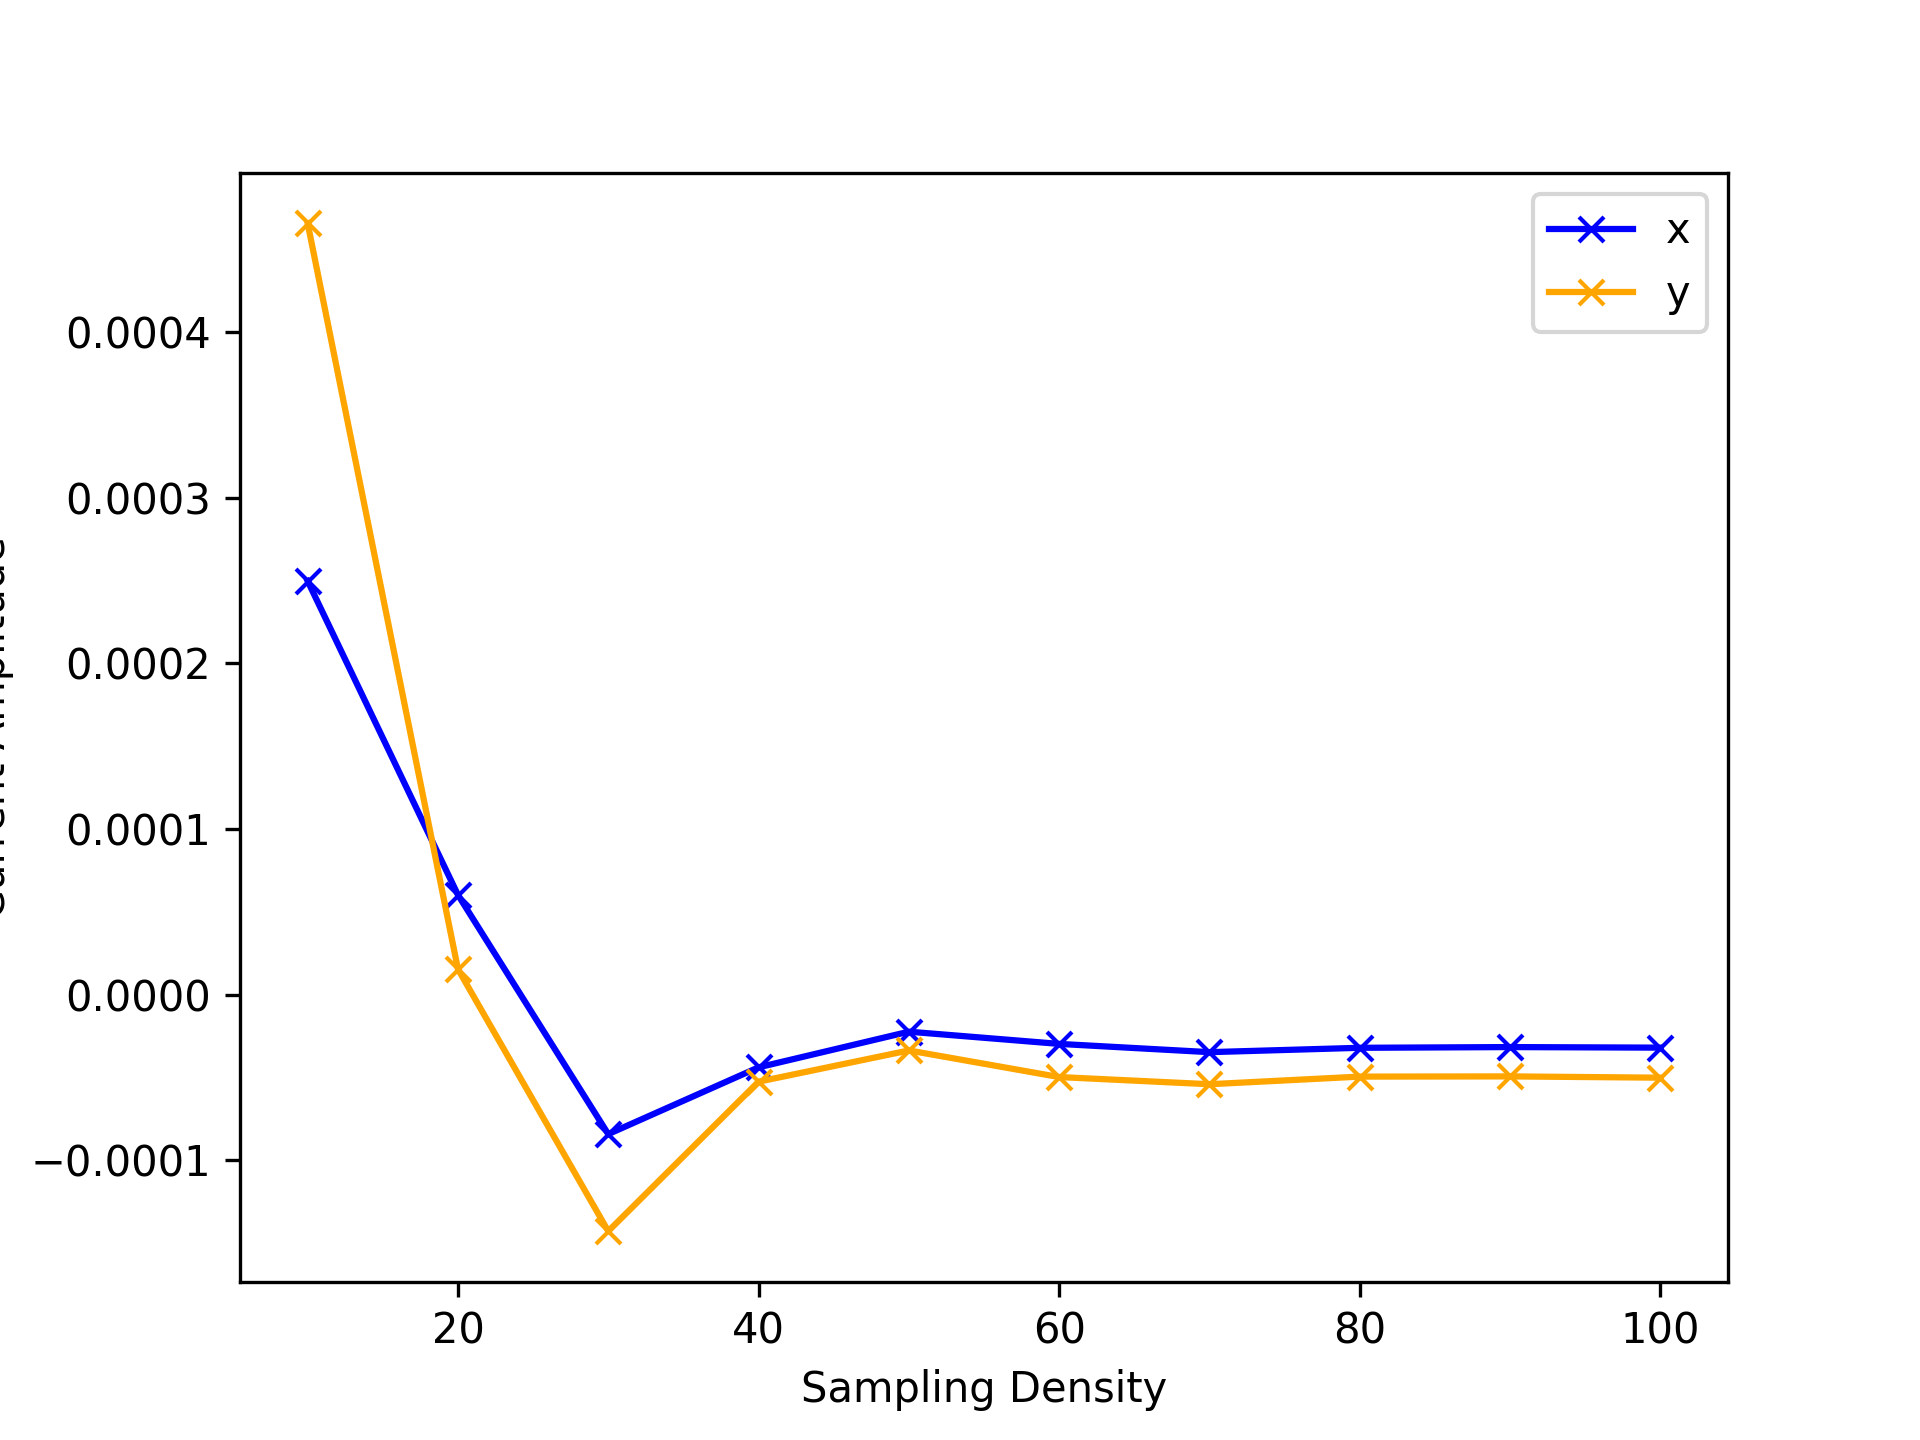
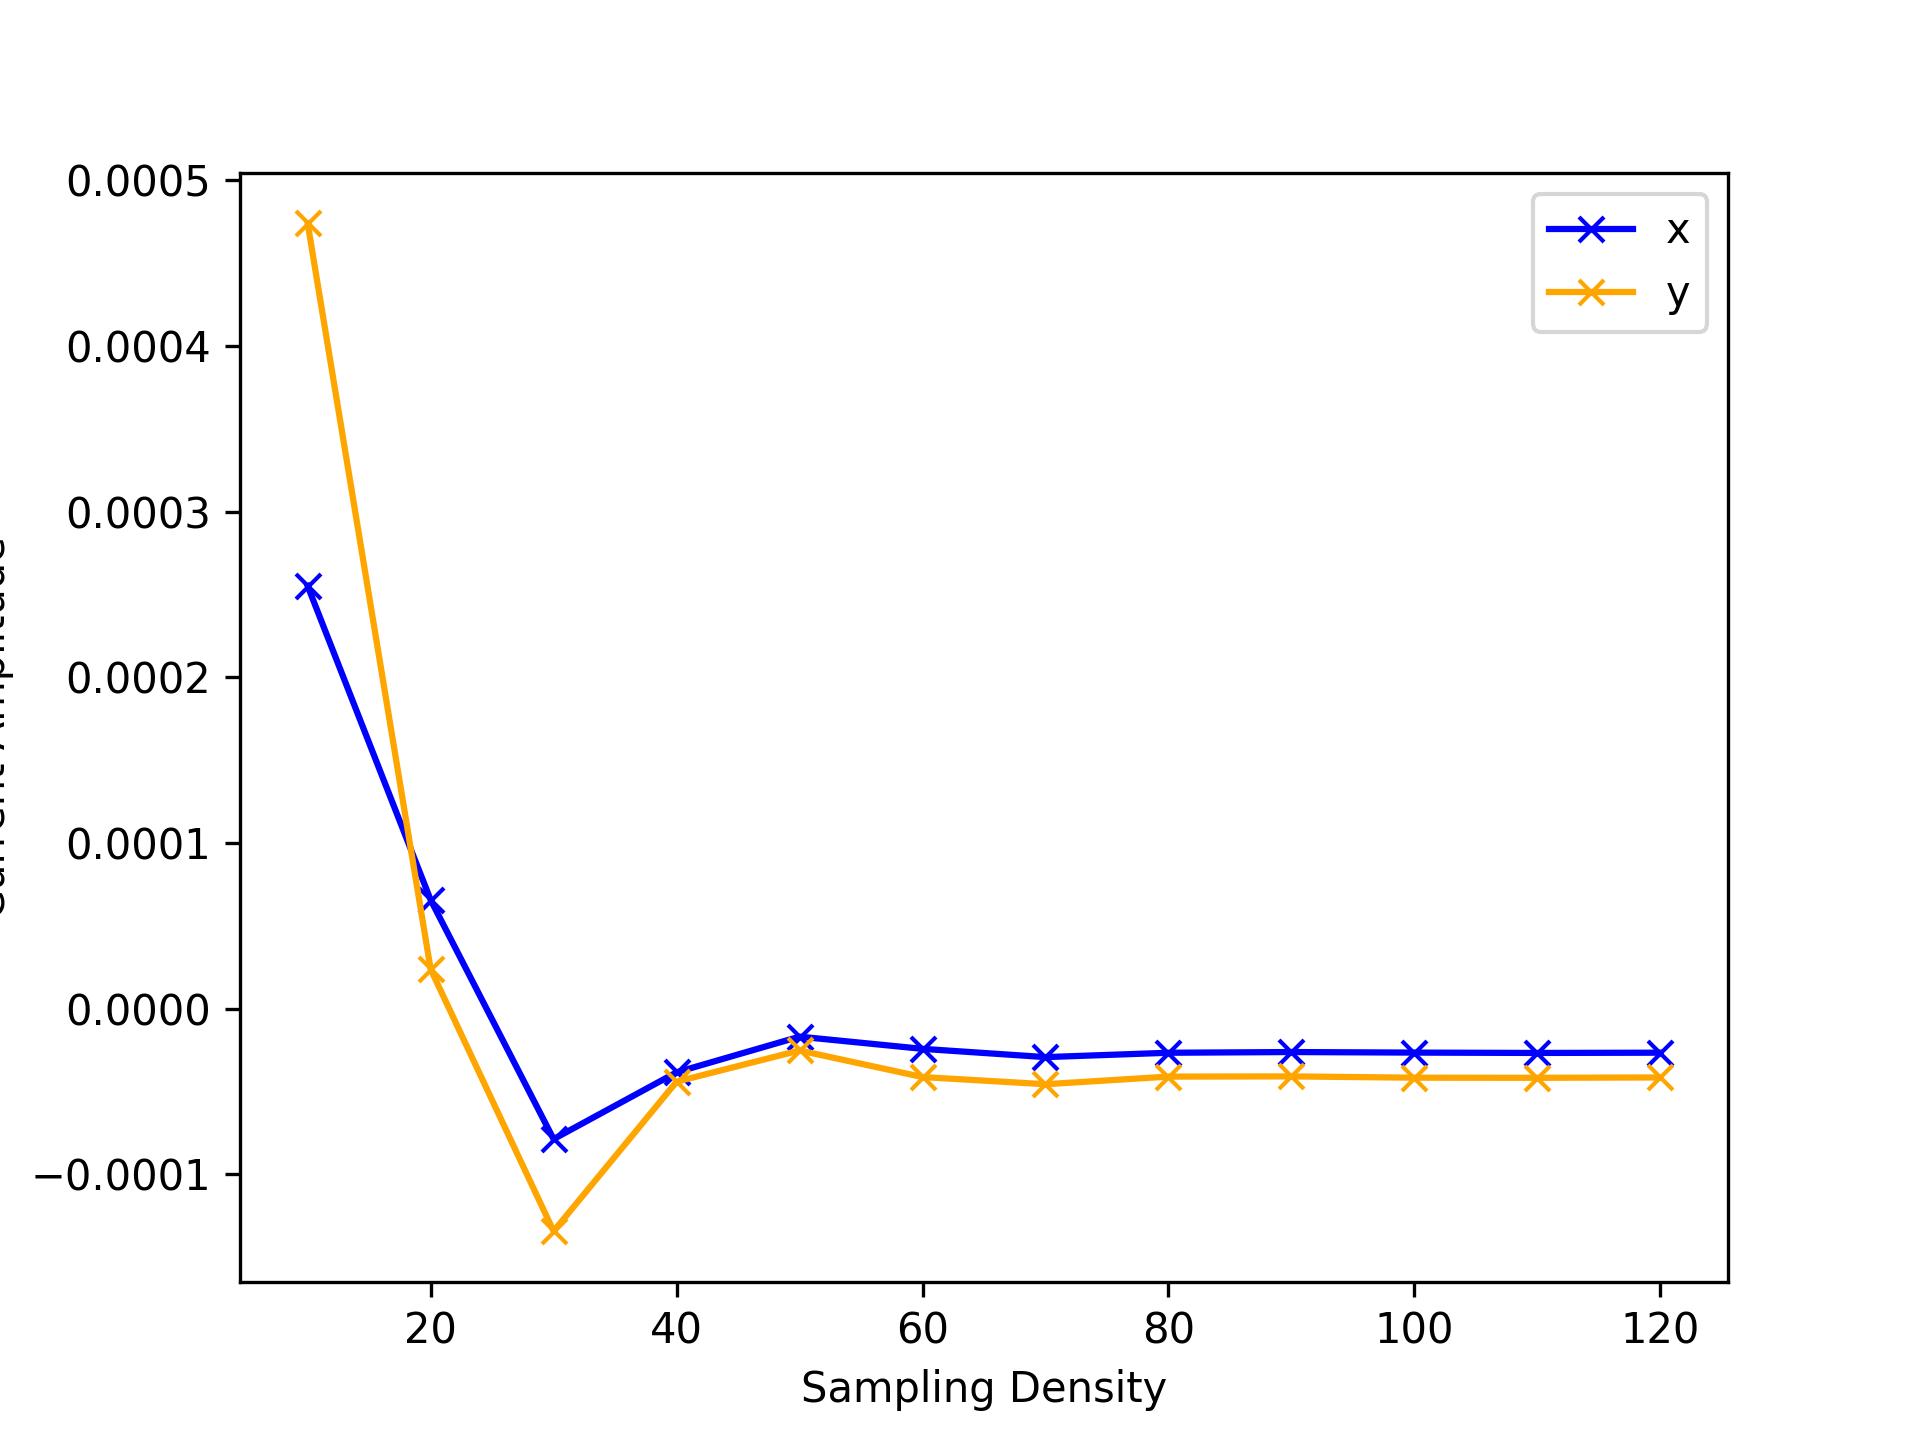
Added k=110 and 120 files to make sure the system really does converge at ~80, and it seems like it does.

diff --git a/chern_insulator/data/convergence_plot.py b/chern_insulator/data/convergence_plot.py
@@ -3,14 +3,22 @@ import matplotlib.pyplot as plt
 
 from config.paths import DATA_DIR
 
-xAmplitude = np.zeros((10,), dtype=float)
-yAmplitude = np.zeros((10,), dtype=float)
-kVals = range(10, 110, 10)
+xAmplitude = np.zeros((12,), dtype=float)
+yAmplitude = np.zeros((12,), dtype=float)
+kVals = range(10, 130, 10)
 
 for i, k in enumerate(kVals):
     _, currentData = np.load(DATA_DIR / f"D=1.0, k={k}.npy", allow_pickle=True)
     xAmplitude[i] = np.max(np.abs(currentData.totalCurrent[0, -1000:]))
     yAmplitude[i] = np.max(np.abs(currentData.totalCurrent[1, -1000:]))
+
+plt.plot(kVals, xAmplitude, color='blue', label='x', marker='x')
+plt.plot(kVals, yAmplitude, color='orange', label='y', marker='x')
+plt.xlabel("Sampling Density")
+plt.ylabel("Current Amplitude")
+plt.legend()
+plt.savefig(DATA_DIR / "Convergence.png", dpi=300)
+plt.show()
 
 plt.plot(kVals, xAmplitude - np.mean(xAmplitude), color='blue', label='x', marker='x')
 plt.plot(kVals, yAmplitude - np.mean(yAmplitude), color='orange', label='y', marker='x')